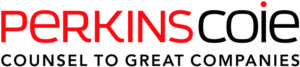
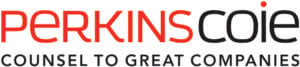
further optimize images; add faq link to navbar

diff --git a/index.html b/index.html
@@ -210,6 +210,12 @@
               <span v-else>报名购票</span>
             </a>
           </li>
+          <li>
+            <a role="button" data-toggle="modal" data-target="#faq-modal">
+              <span v-if="en">FAQ</span>
+              <span v-else>报名须知</span>
+            </a>
+          </li>
           <li data-menuanchor="about">
             <!-- <a href="#about/summary"> -->
             <a href="#about">
